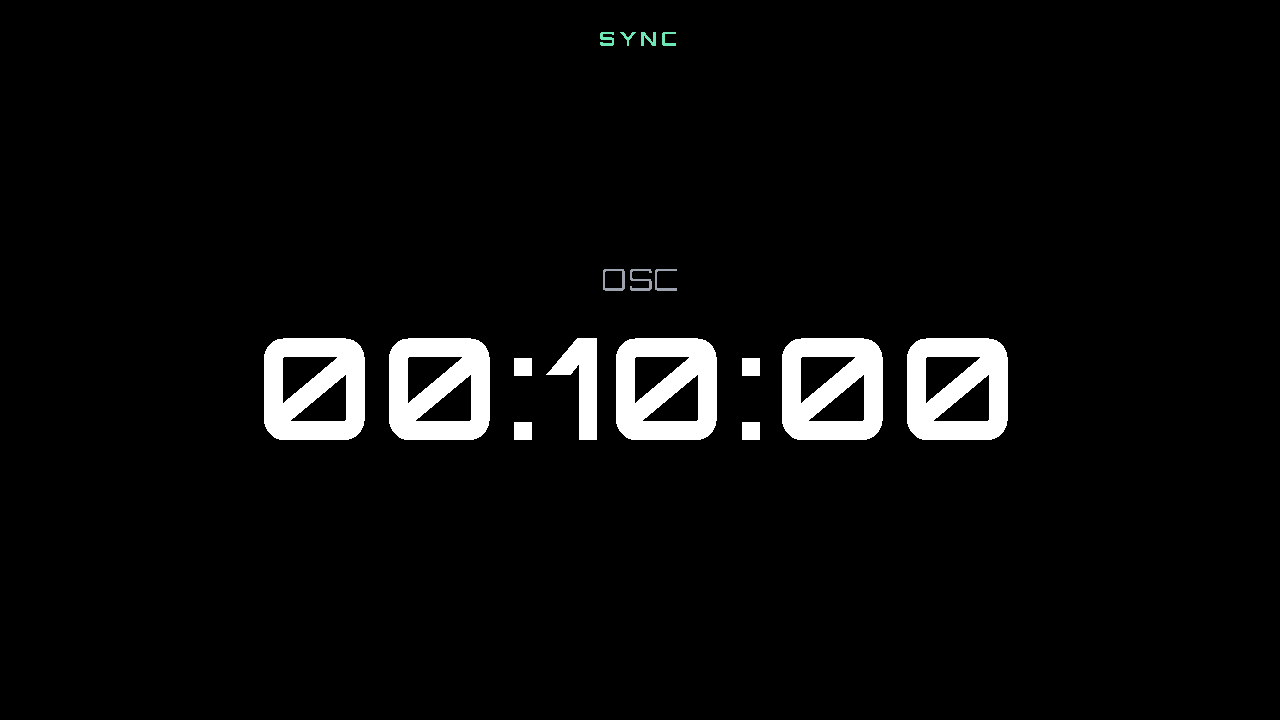
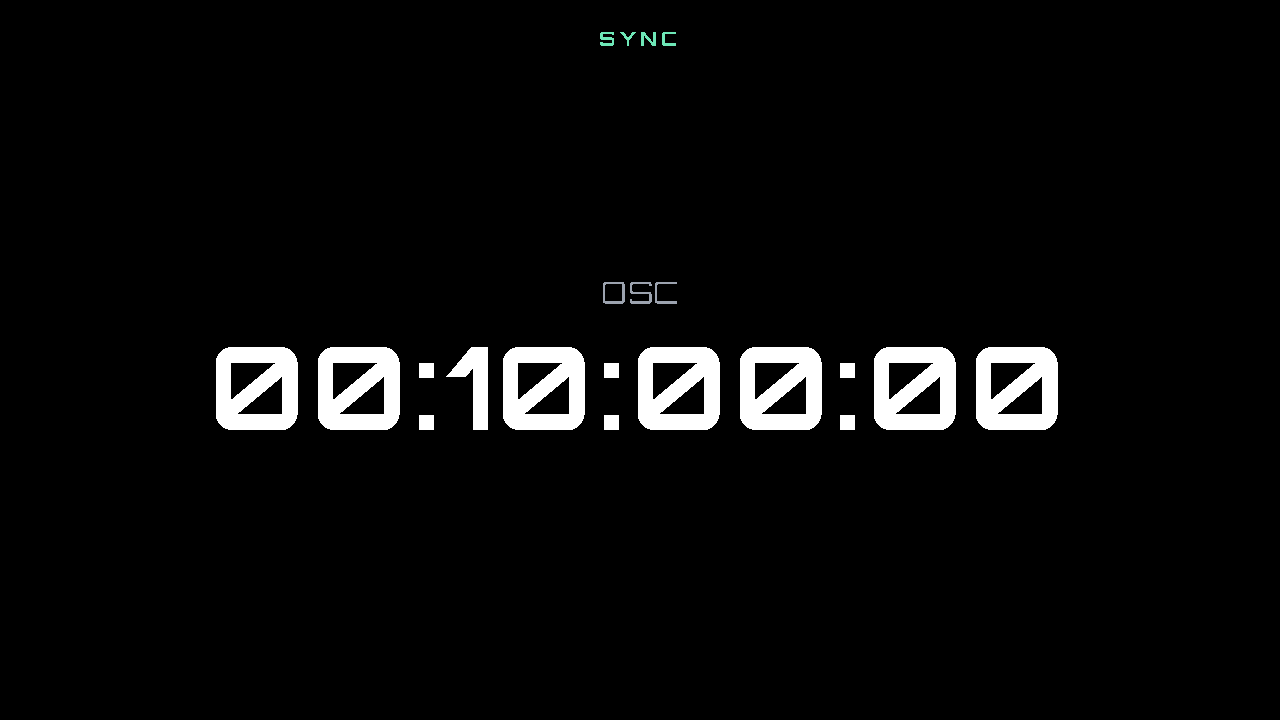
v3.0.1: external sync window closes for good on X (OPEN/CLOSE DISPLAY toggle buttons), HH:MM:SS:MS display with sub-second precision

Changed region(s): [[0.1562, 0.4583, 0.8438, 0.6111], [0.4688, 0.3667, 0.5312, 0.4278]]

diff --git a/public/index.html b/public/index.html
@@ -1233,7 +1233,7 @@
                     </div>
                     <div class="custom-row" style="margin-bottom:10px">
                         <span id="sync-status" class="msg-badge badge-off" style="flex:none">NO SIGNAL</span>
-                        <span id="sync-time" style="flex:1;font-family:Orbitron,Courier New,monospace;font-size:18px;font-weight:700;color:var(--text);text-align:center">00:00:00</span>
+                        <span id="sync-time" style="flex:1;font-family:Orbitron,Courier New,monospace;font-size:14px;font-weight:700;color:var(--text);text-align:center">00:00:00:00</span>
                     </div>
                     <div class="btn-grid" style="grid-template-columns:1fr 1fr 1fr;margin-bottom:10px">
                         <button onclick="syncCmd('start')" class="btn btn-start btn-sm" style="height:40px">START</button>
@@ -2235,21 +2235,32 @@
                 }
             }
             if (timeEl) {
-                var t = Math.max(0, Math.round(st.timeLeft || 0));
+                var t = Math.max(0, st.timeLeft || 0);
                 var h = Math.floor(t / 3600);
                 var m = Math.floor((t % 3600) / 60);
-                var sec = t % 60;
+                var s = Math.floor(t % 60);
+                var cs = Math.floor((t * 100) % 100);
                 timeEl.textContent =
                     String(h).padStart(2, '0') + ':' +
                     String(m).padStart(2, '0') + ':' +
-                    String(sec).padStart(2, '0');
+                    String(s).padStart(2, '0') + ':' +
+                    String(cs).padStart(2, '0');
             }
+        }
+
+        function updateSyncPresenterButton(active) {
+            var btn = document.getElementById('btn-sync-presenter');
+            if (!btn) return;
+            var lang = (currentSettings && currentSettings.language) || 'en';
+            var pt = lang === 'pt';
+            btn.textContent = active ? (pt ? 'FECHAR ECRÃ' : 'CLOSE DISPLAY') : (pt ? 'ABRIR ECRÃ' : 'OPEN DISPLAY');
+            btn.classList.toggle('active', !!active);
         }
 
         function toggleSyncPresenterWindow() {
             if (window.electronAPI) {
                 window.electronAPI.toggleSyncPresenter().then(function(active) {
-                    document.getElementById('btn-sync-presenter').classList.toggle('active', active);
+                    updateSyncPresenterButton(active);
                 });
             } else {
                 window.open('/presenter.html?view=sync', 'syncpresenter');
@@ -2347,14 +2358,33 @@
             };
         }
 
+        function updateTimer2PresenterButton(active) {
+            var btn = document.getElementById('btn-timer2-presenter');
+            if (!btn) return;
+            var lang = (currentSettings && currentSettings.language) || 'en';
+            var pt = lang === 'pt';
+            btn.textContent = active ? (pt ? 'FECHAR ECRÃ' : 'CLOSE DISPLAY') : (pt ? 'ABRIR ECRÃ' : 'OPEN DISPLAY');
+            btn.classList.toggle('active', !!active);
+        }
+
         function toggleTimer2PresenterWindow() {
             if (window.electronAPI) {
                 window.electronAPI.toggleTimer2Presenter().then(function(active) {
-                    document.getElementById('btn-timer2-presenter').classList.toggle('active', active);
+                    updateTimer2PresenterButton(active);
                 });
             } else {
                 window.open('/presenter.html?view=timer2', 'timer2presenter');
             }
+        }
+
+        // keep the OPEN/CLOSE DISPLAY labels in sync with the real window state
+        if (window.electronAPI) {
+            window.electronAPI.onSyncPresenterStatus(function(active) {
+                updateSyncPresenterButton(active);
+            });
+            window.electronAPI.onTimer2PresenterStatus(function(active) {
+                updateTimer2PresenterButton(active);
+            });
         }
 
         function toggleClock() {

diff --git a/main.js b/main.js
@@ -397,10 +397,17 @@ function createSyncPresenterWindow() {
 
     syncPresenterWindow.once('ready-to-show', () => {
         syncPresenterWindow.show();
+        broadcastSyncPresenterStatus(true);
+    });
+
+    // X on the window closes it for good (no auto-reopen)
+    syncPresenterWindow.on('close', () => {
+        syncPresenterEnabled = false;
     });
 
     syncPresenterWindow.on('closed', () => {
         syncPresenterWindow = null;
+        broadcastSyncPresenterStatus(false);
         if (syncPresenterEnabled && !isQuitting && mainWindow) {
             setTimeout(() => {
                 if (syncPresenterEnabled && !isQuitting && !syncPresenterWindow && mainWindow) {
@@ -409,16 +416,34 @@ function createSyncPresenterWindow() {
             }, 2000);
         }
     });
+
+    // renderer crash recovery (only when the window was expected to stay open)
+    syncPresenterWindow.webContents.on('render-process-gone', () => {
+        if (!syncPresenterEnabled || isQuitting) return;
+        const dead = syncPresenterWindow;
+        syncPresenterWindow = null;
+        if (dead && !dead.isDestroyed()) dead.destroy();
+        setTimeout(() => {
+            if (syncPresenterEnabled && !isQuitting && !syncPresenterWindow && mainWindow) {
+                createSyncPresenterWindow();
+            }
+        }, 2000);
+    });
+}
+
+function broadcastSyncPresenterStatus(active) {
+    if (mainWindow && !mainWindow.isDestroyed()) {
+        try { mainWindow.webContents.send('sync-presenter-status', active); } catch (e) { /* ignore */ }
+    }
 }
 
 function toggleSyncPresenterWindow() {
     if (syncPresenterWindow) {
-        // Reopen: the user may have picked a different display — recreate
-        // the window so it moves to the newly selected monitor.
+        // Close for good (the button toggles between OPEN and CLOSE DISPLAY)
         syncPresenterEnabled = false;
         syncPresenterWindow.close();
         syncPresenterWindow = null;
-        createSyncPresenterWindow();
+        broadcastSyncPresenterStatus(false);
     } else {
         createSyncPresenterWindow();
     }
@@ -528,10 +553,17 @@ function createTimer2PresenterWindow() {
 
     timer2Window.once('ready-to-show', () => {
         timer2Window.show();
+        broadcastTimer2PresenterStatus(true);
+    });
+
+    // X on the window closes it for good (no auto-reopen)
+    timer2Window.on('close', () => {
+        timer2Enabled = false;
     });
 
     timer2Window.on('closed', () => {
         timer2Window = null;
+        broadcastTimer2PresenterStatus(false);
         if (timer2Enabled && !isQuitting && mainWindow) {
             setTimeout(() => {
                 if (timer2Enabled && !isQuitting && !timer2Window && mainWindow) {
@@ -540,15 +572,33 @@ function createTimer2PresenterWindow() {
             }, 2000);
         }
     });
+
+    timer2Window.webContents.on('render-process-gone', () => {
+        if (!timer2Enabled || isQuitting) return;
+        const dead = timer2Window;
+        timer2Window = null;
+        if (dead && !dead.isDestroyed()) dead.destroy();
+        setTimeout(() => {
+            if (timer2Enabled && !isQuitting && !timer2Window && mainWindow) {
+                createTimer2PresenterWindow();
+            }
+        }, 2000);
+    });
+}
+
+function broadcastTimer2PresenterStatus(active) {
+    if (mainWindow && !mainWindow.isDestroyed()) {
+        try { mainWindow.webContents.send('timer2-presenter-status', active); } catch (e) { /* ignore */ }
+    }
 }
 
 function toggleTimer2PresenterWindow() {
     if (timer2Window) {
-        // Reopen: the user may have picked a different display
+        // Close for good (the button toggles between OPEN and CLOSE DISPLAY)
         timer2Enabled = false;
         timer2Window.close();
         timer2Window = null;
-        createTimer2PresenterWindow();
+        broadcastTimer2PresenterStatus(false);
     } else {
         createTimer2PresenterWindow();
     }

diff --git a/public/presenter.html b/public/presenter.html
@@ -645,6 +645,20 @@
             }
         }
 
+        // HH:MM:SS:MS (2-digit hours/minutes/seconds + 2-digit hundredths of
+        // a second) for the external sync timer.
+        function formatSyncTime(sec) {
+            sec = Math.max(0, sec || 0);
+            var h = Math.floor(sec / 3600);
+            var m = Math.floor((sec % 3600) / 60);
+            var s = Math.floor(sec % 60);
+            var cs = Math.floor((sec * 100) % 100);
+            return String(h).padStart(2, '0') + ':' +
+                   String(m).padStart(2, '0') + ':' +
+                   String(s).padStart(2, '0') + ':' +
+                   String(cs).padStart(2, '0');
+        }
+
         // --- SYNC VIEW (external device timer) ---
         function buildSyncStage(s) {
             currentState = s;
@@ -681,8 +695,8 @@
             var el = getTimerEl();
             if (el) {
                 var t = (s.syncTimer && s.syncTimer.timeLeft) || 0;
-                el.textContent = formatTime(t, { showHours: true, showSeconds: true });
-                el.style.fontSize = 'min(11vw, 20vh)';
+                el.textContent = formatSyncTime(t);
+                el.style.fontSize = 'min(9vw, 16vh)';
             }
 
             var cap = document.getElementById('caption');

diff --git a/preload.js b/preload.js
@@ -7,9 +7,15 @@ contextBridge.exposeInMainWorld('electronAPI', {
     toggleSyncPresenter: () => ipcRenderer.invoke('toggle-sync-presenter'),
     getSyncPresenterStatus: () => ipcRenderer.invoke('get-sync-presenter-status'),
     closeSyncPresenter: () => ipcRenderer.invoke('close-sync-presenter'),
+    onSyncPresenterStatus: (callback) => {
+        ipcRenderer.on('sync-presenter-status', (event, active) => callback(active));
+    },
     toggleTimer2Presenter: () => ipcRenderer.invoke('toggle-timer2-presenter'),
     getTimer2PresenterStatus: () => ipcRenderer.invoke('get-timer2-presenter-status'),
     closeTimer2Presenter: () => ipcRenderer.invoke('close-timer2-presenter'),
+    onTimer2PresenterStatus: (callback) => {
+        ipcRenderer.on('timer2-presenter-status', (event, active) => callback(active));
+    },
     getDisplays: () => ipcRenderer.invoke('get-displays'),
     checkForUpdates: () => ipcRenderer.invoke('check-for-updates'),
     getAppInfo: () => ipcRenderer.invoke('get-app-info'),

diff --git a/server.js b/server.js
@@ -753,13 +753,14 @@ setInterval(() => {
         }
     }
 
-    // External sync timer: local countdown when not following the source
+    // External sync timer: local countdown when not following the source.
+    // Keeps sub-second precision so the display can show HH:MM:SS:MS.
     if (state.syncTimer.isRunning && !state.syncTimer.following) {
         if (syncCountdownEnd === null) {
             syncCountdownEnd = now + state.syncTimer.timeLeft * 1000;
         }
-        const nt = Math.round((syncCountdownEnd - now) / 1000);
-        if (nt !== state.syncTimer.timeLeft) {
+        const nt = Math.round(syncCountdownEnd - now) / 1000;
+        if (Math.abs(nt - state.syncTimer.timeLeft) >= 0.005) {
             state.syncTimer.timeLeft = Math.max(0, nt);
             if (state.syncTimer.timeLeft <= 0) {
                 state.syncTimer.isRunning = false;

diff --git a/companion/smart-timer-pro/main.js b/companion/smart-timer-pro/main.js
@@ -121,7 +121,7 @@ class SmartTimerProInstance extends InstanceBase {
 					sync_hours: Math.floor(syncTotalSec / 3600).toString().padStart(2, '0'),
 					sync_minutes: Math.floor((syncTotalSec % 3600) / 60).toString().padStart(2, '0'),
 					sync_seconds: (syncTotalSec % 60).toString().padStart(2, '0'),
-					sync_ms: (syncMs % 1000).toString().padStart(3, '0'),
+					sync_ms: Math.floor((syncMs % 1000) / 10).toString().padStart(2, '0'),
 					sync_source: data.syncSource || '',
 					sync_connected: data.syncConnected ? 'true' : 'false',
 				};

diff --git a/docs/CHANGELOG.md b/docs/CHANGELOG.md
@@ -1,5 +1,11 @@
 # Changelog
 
+## [3.0.1] - 2026-10-03
+
+### Fixes
+- **External Sync window**: closing it with the X now closes it for good (no auto-reopen); the OPEN DISPLAY button toggles between OPEN DISPLAY and CLOSE DISPLAY (same for the Second Timer button)
+- **HH:MM:SS:MS display**: the external sync timer (presenter window, GUI card and Companion) now shows exactly HH:MM:SS:MS — 2-digit hours, minutes, seconds and 2-digit hundredths of a second, with sub-second precision kept server-side
+
 ## [3.0.0] - 2026-10-03
 
 ### New Features
